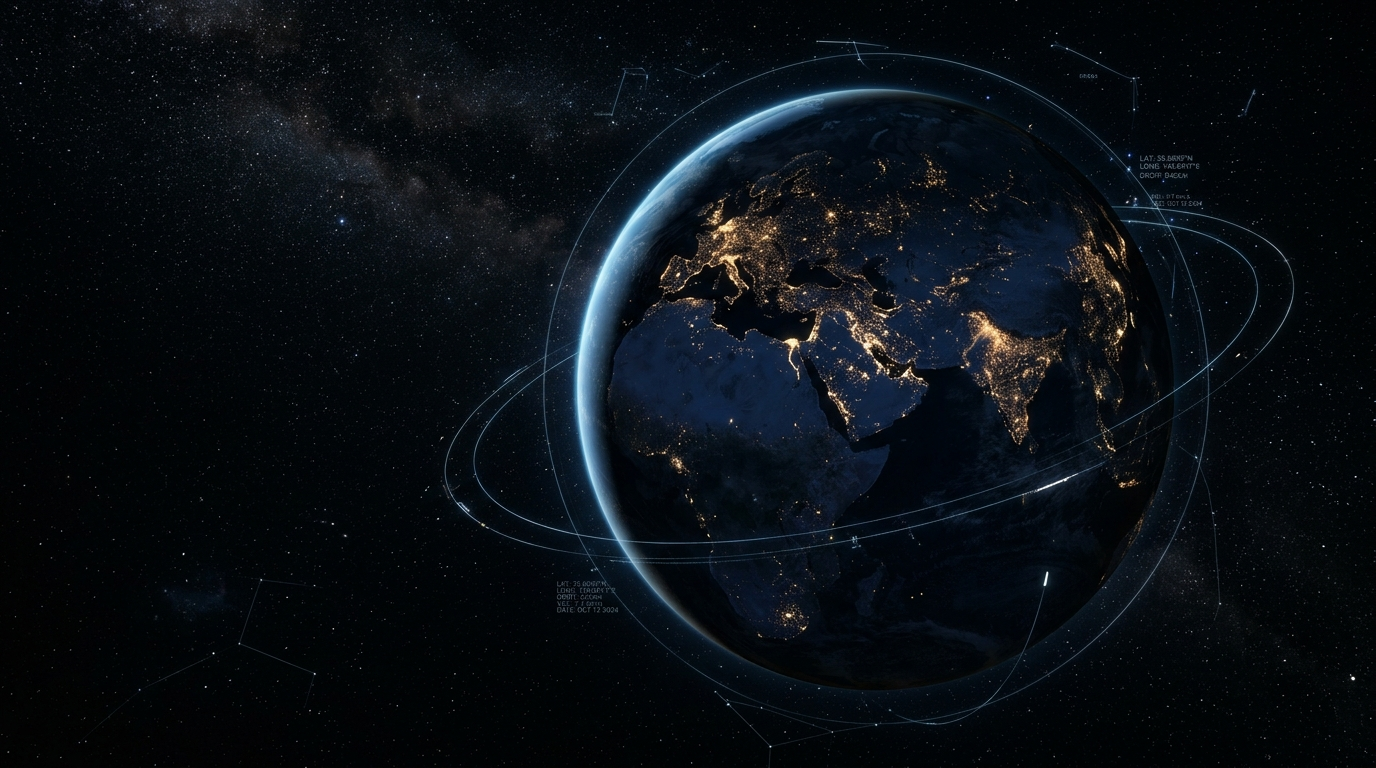
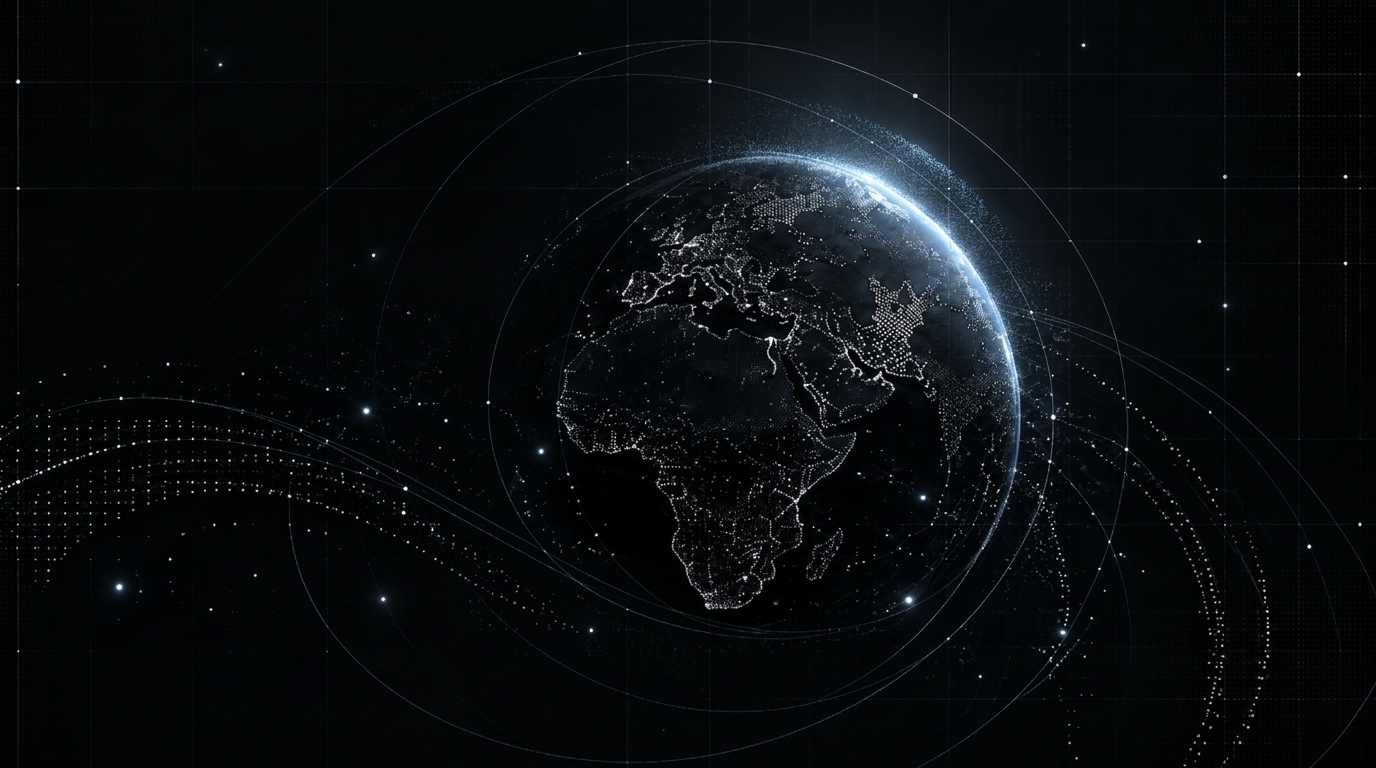
feat(login): enhance background to 8k resolution asset matching reference design

diff --git a/frontend/src/app/(auth)/login/page.tsx b/frontend/src/app/(auth)/login/page.tsx
@@ -151,7 +151,7 @@ export default function LoginPage() {
           unoptimized={true}
           quality={100}
           sizes="100vw"
-          className="object-cover object-[70%_center] lg:object-[68%_center]"
+          className="object-cover object-[60%_center] lg:object-[58%_center]"
         />
       </div>
 
